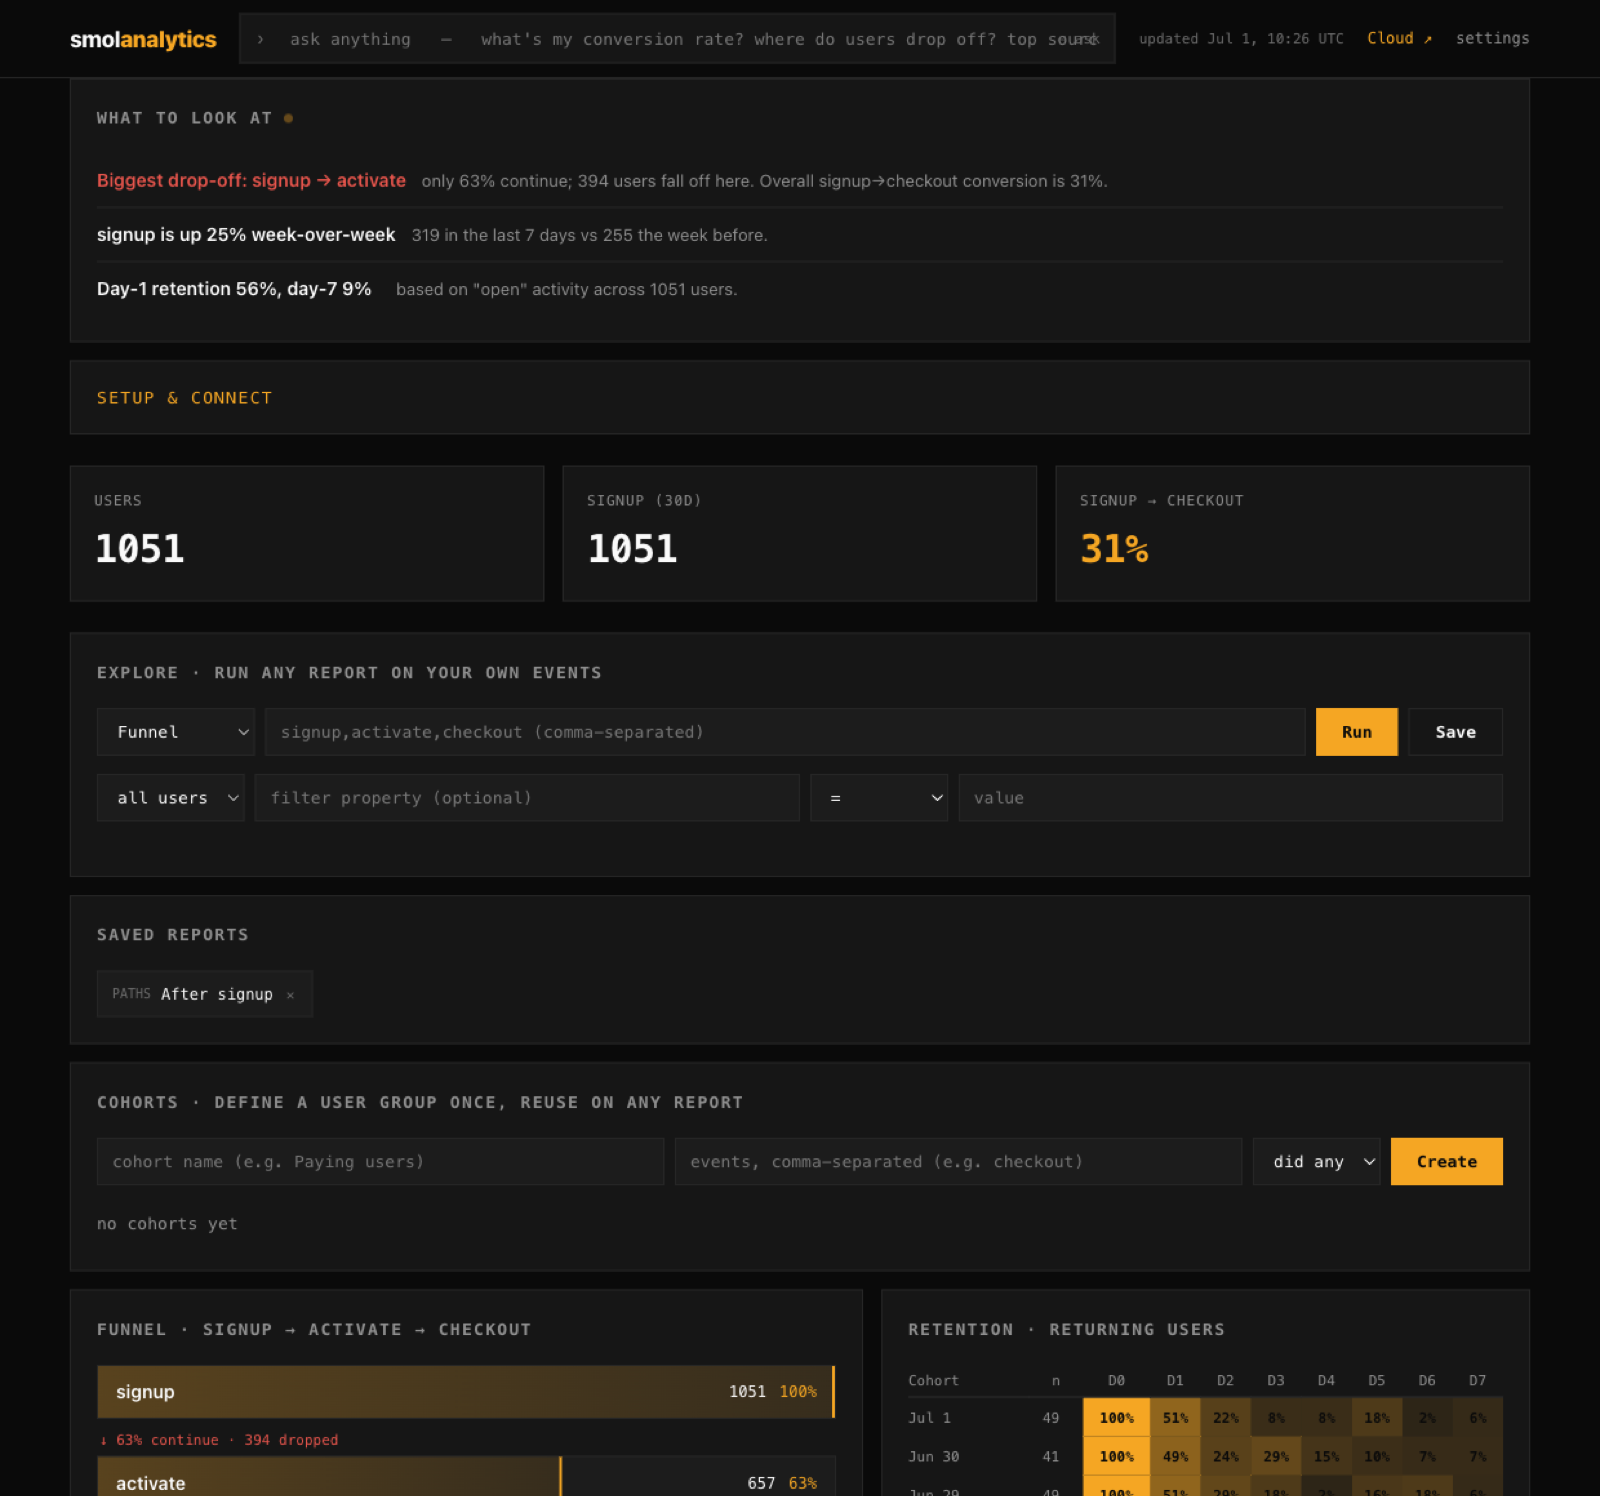
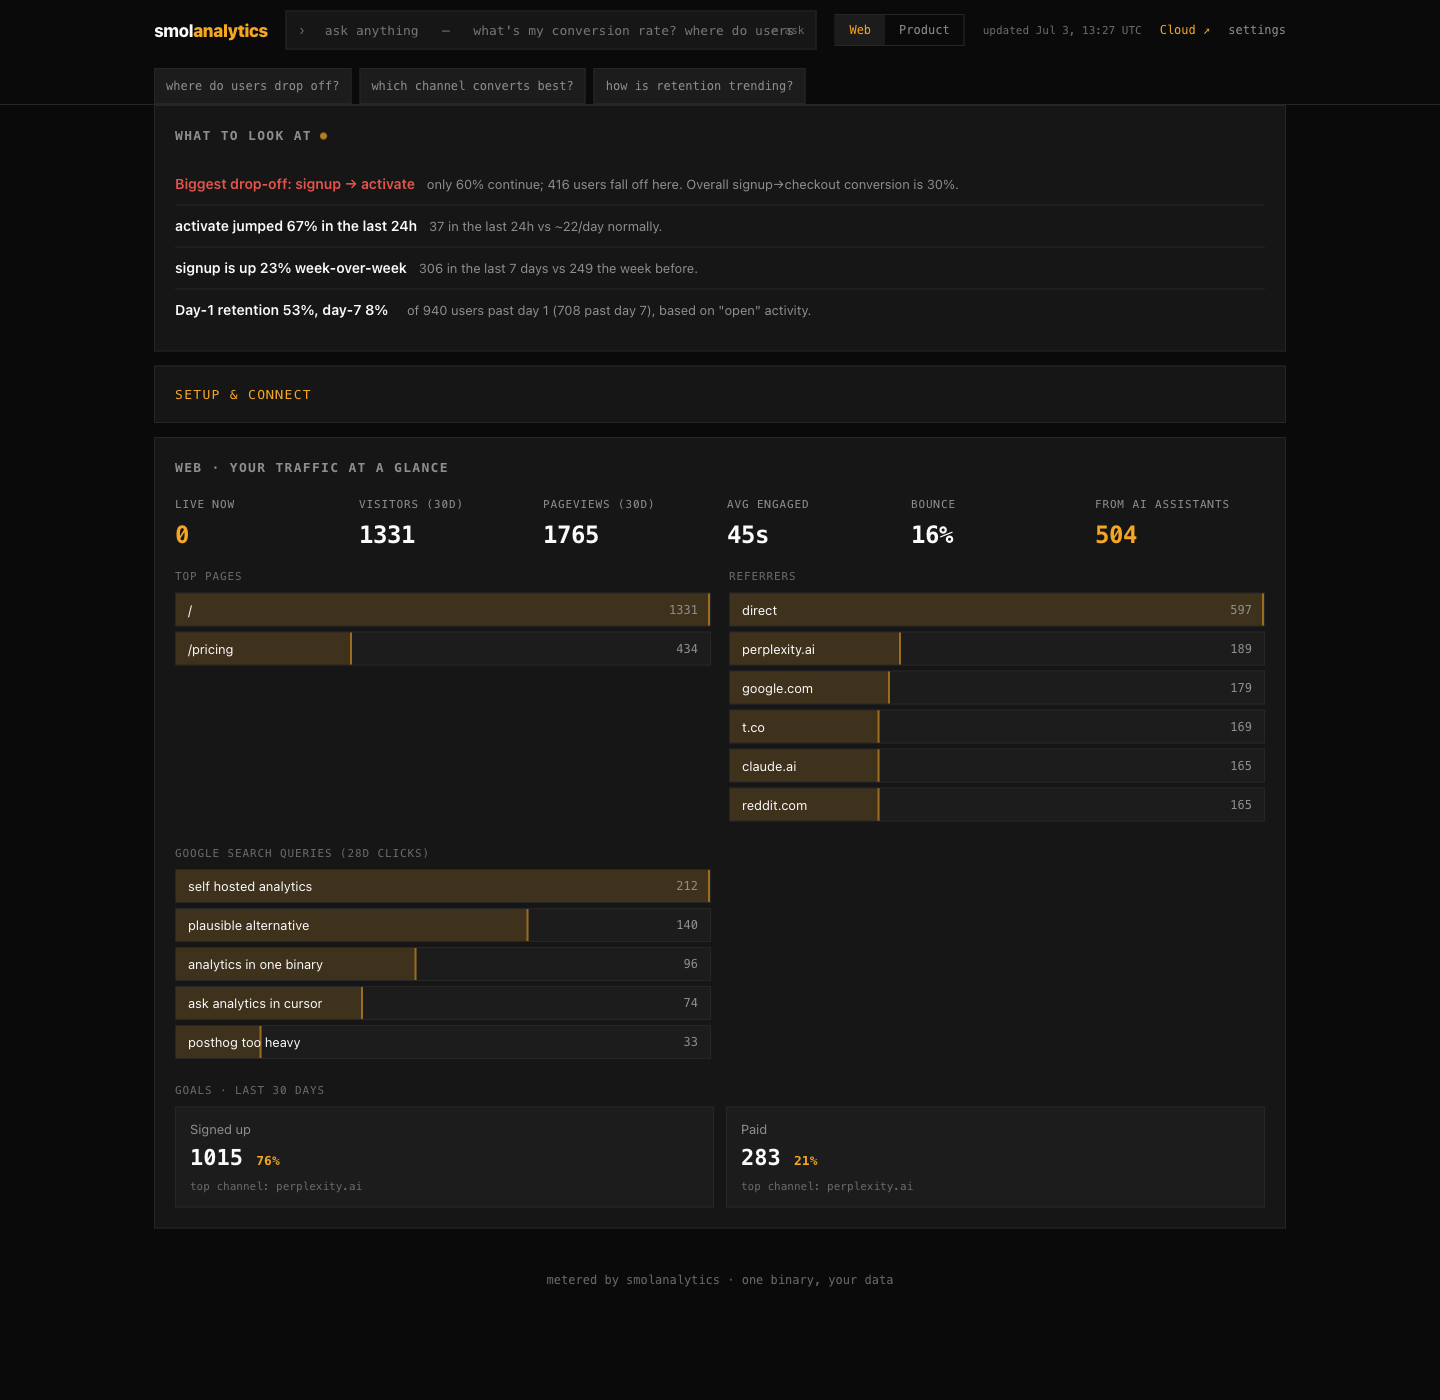
web-view verdict bug + fresh canonical screenshot
the web/product split left explore's JS running while its DOM was hidden — the
script died on a null element BEFORE the verdict loader ran, so the verdict never
rendered in web view ('reading your data…' forever). found while regenerating the
readme screenshot: the screenshot process is a test. explore/saved/cohorts JS now
gated on the product view like its DOM.

docs/dashboard.png regenerated: verdict on top (biggest drop-off + counts), web
glance with the AI-assistants channel, search queries, goals with rates — the
face of the repo now shows the current product.

diff --git a/internal/api/dashboard.tmpl.html b/internal/api/dashboard.tmpl.html
@@ -456,7 +456,7 @@
     }
     pollLive(); setInterval(pollLive, 4000);
 
-    {{if .HasData}}
+    {{if and .HasData .ShowProduct}}
     // explore — run any report on the user's own events (only wired when there's data;
     // the empty-state dashboard omits these sections)
     var exType=document.getElementById('exType'),exA=document.getElementById('exA'),